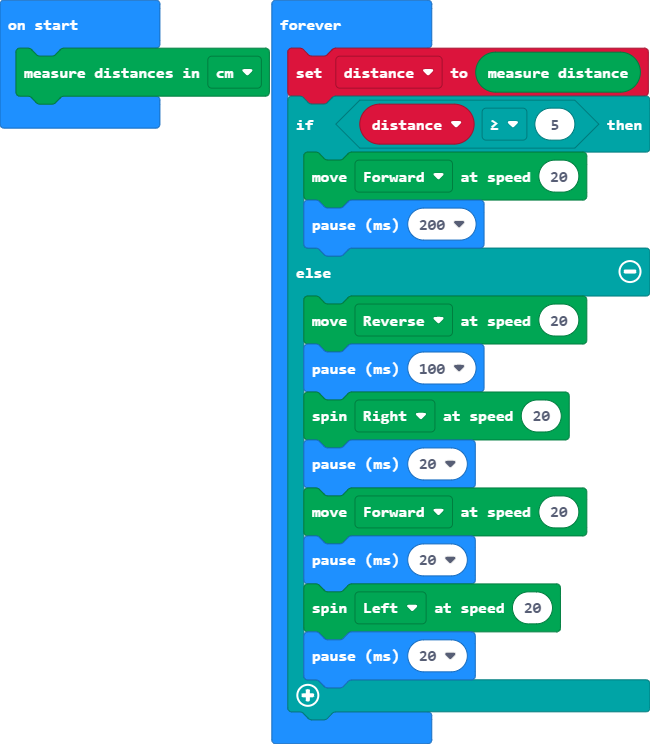
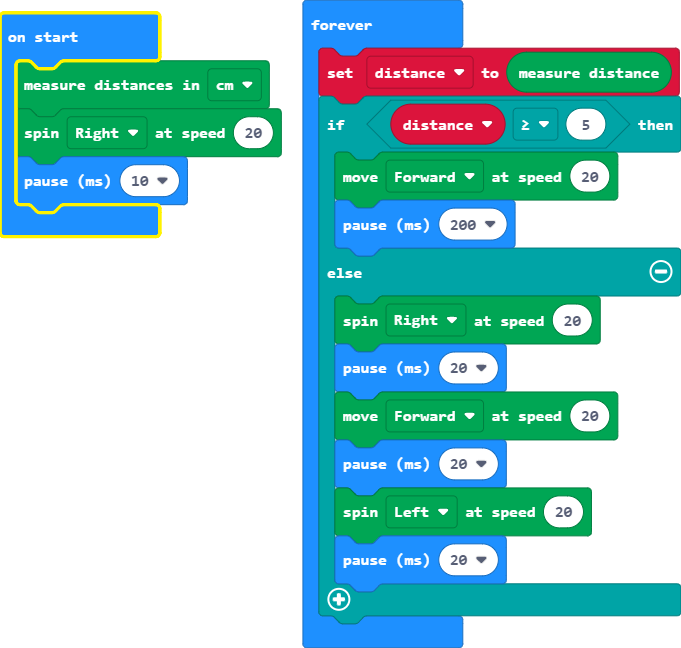
triangular algorithm

diff --git a/main.ts b/main.ts
@@ -1,13 +1,13 @@
 let distance = 0
 Kitronik_Move_Motor.setUltrasonicUnits(Kitronik_Move_Motor.Units.Centimeters)
+Kitronik_Move_Motor.spin(Kitronik_Move_Motor.SpinDirections.Right, 20)
+basic.pause(10)
 basic.forever(function () {
     distance = Kitronik_Move_Motor.measure()
     if (distance >= 5) {
         Kitronik_Move_Motor.move(Kitronik_Move_Motor.DriveDirections.Forward, 20)
         basic.pause(200)
     } else {
-        Kitronik_Move_Motor.move(Kitronik_Move_Motor.DriveDirections.Reverse, 20)
-        basic.pause(100)
         Kitronik_Move_Motor.spin(Kitronik_Move_Motor.SpinDirections.Right, 20)
         basic.pause(20)
         Kitronik_Move_Motor.move(Kitronik_Move_Motor.DriveDirections.Forward, 20)
